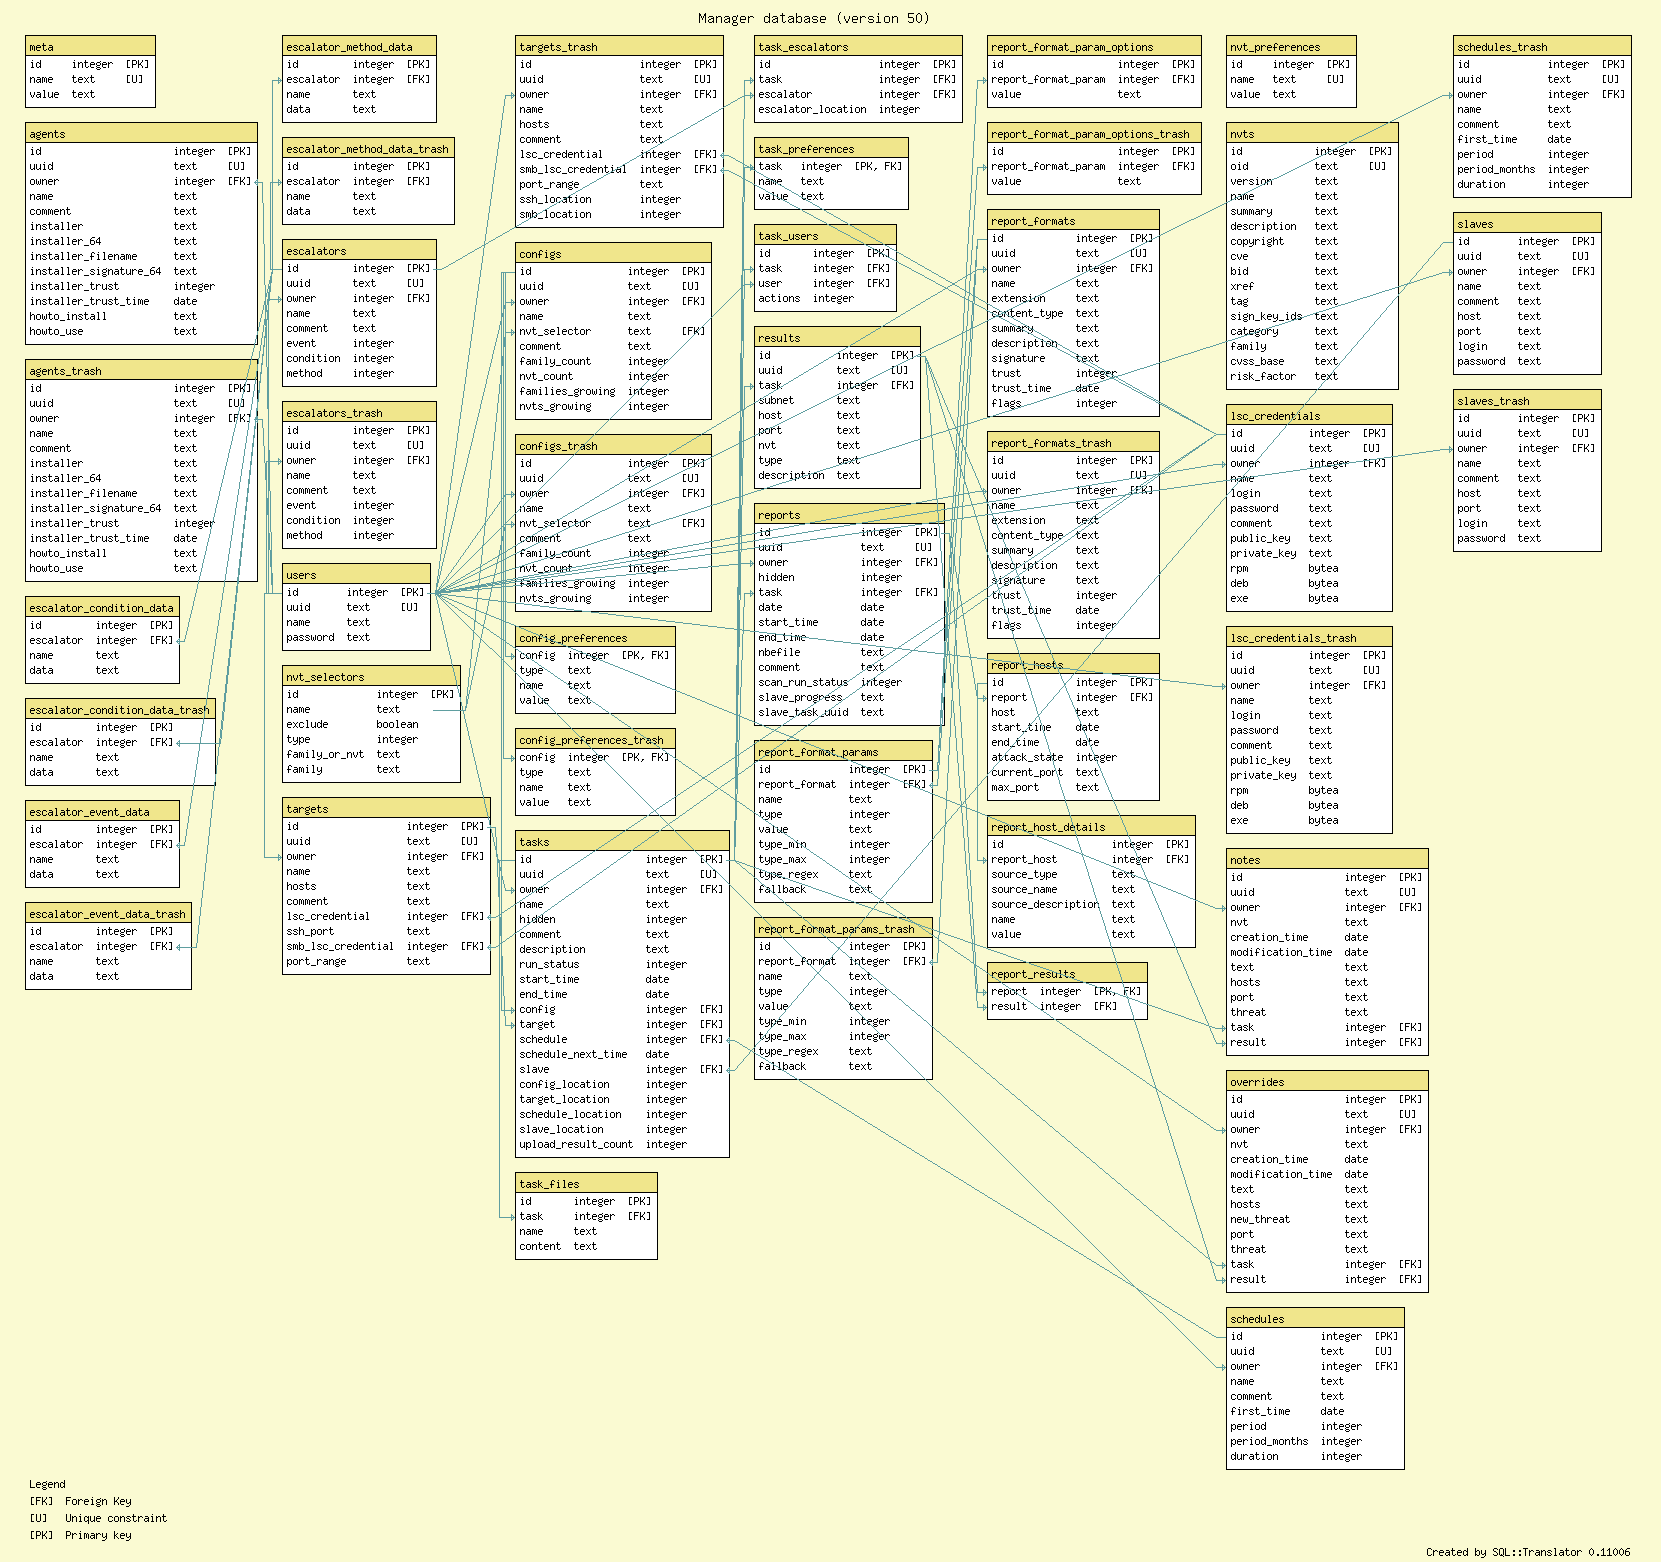
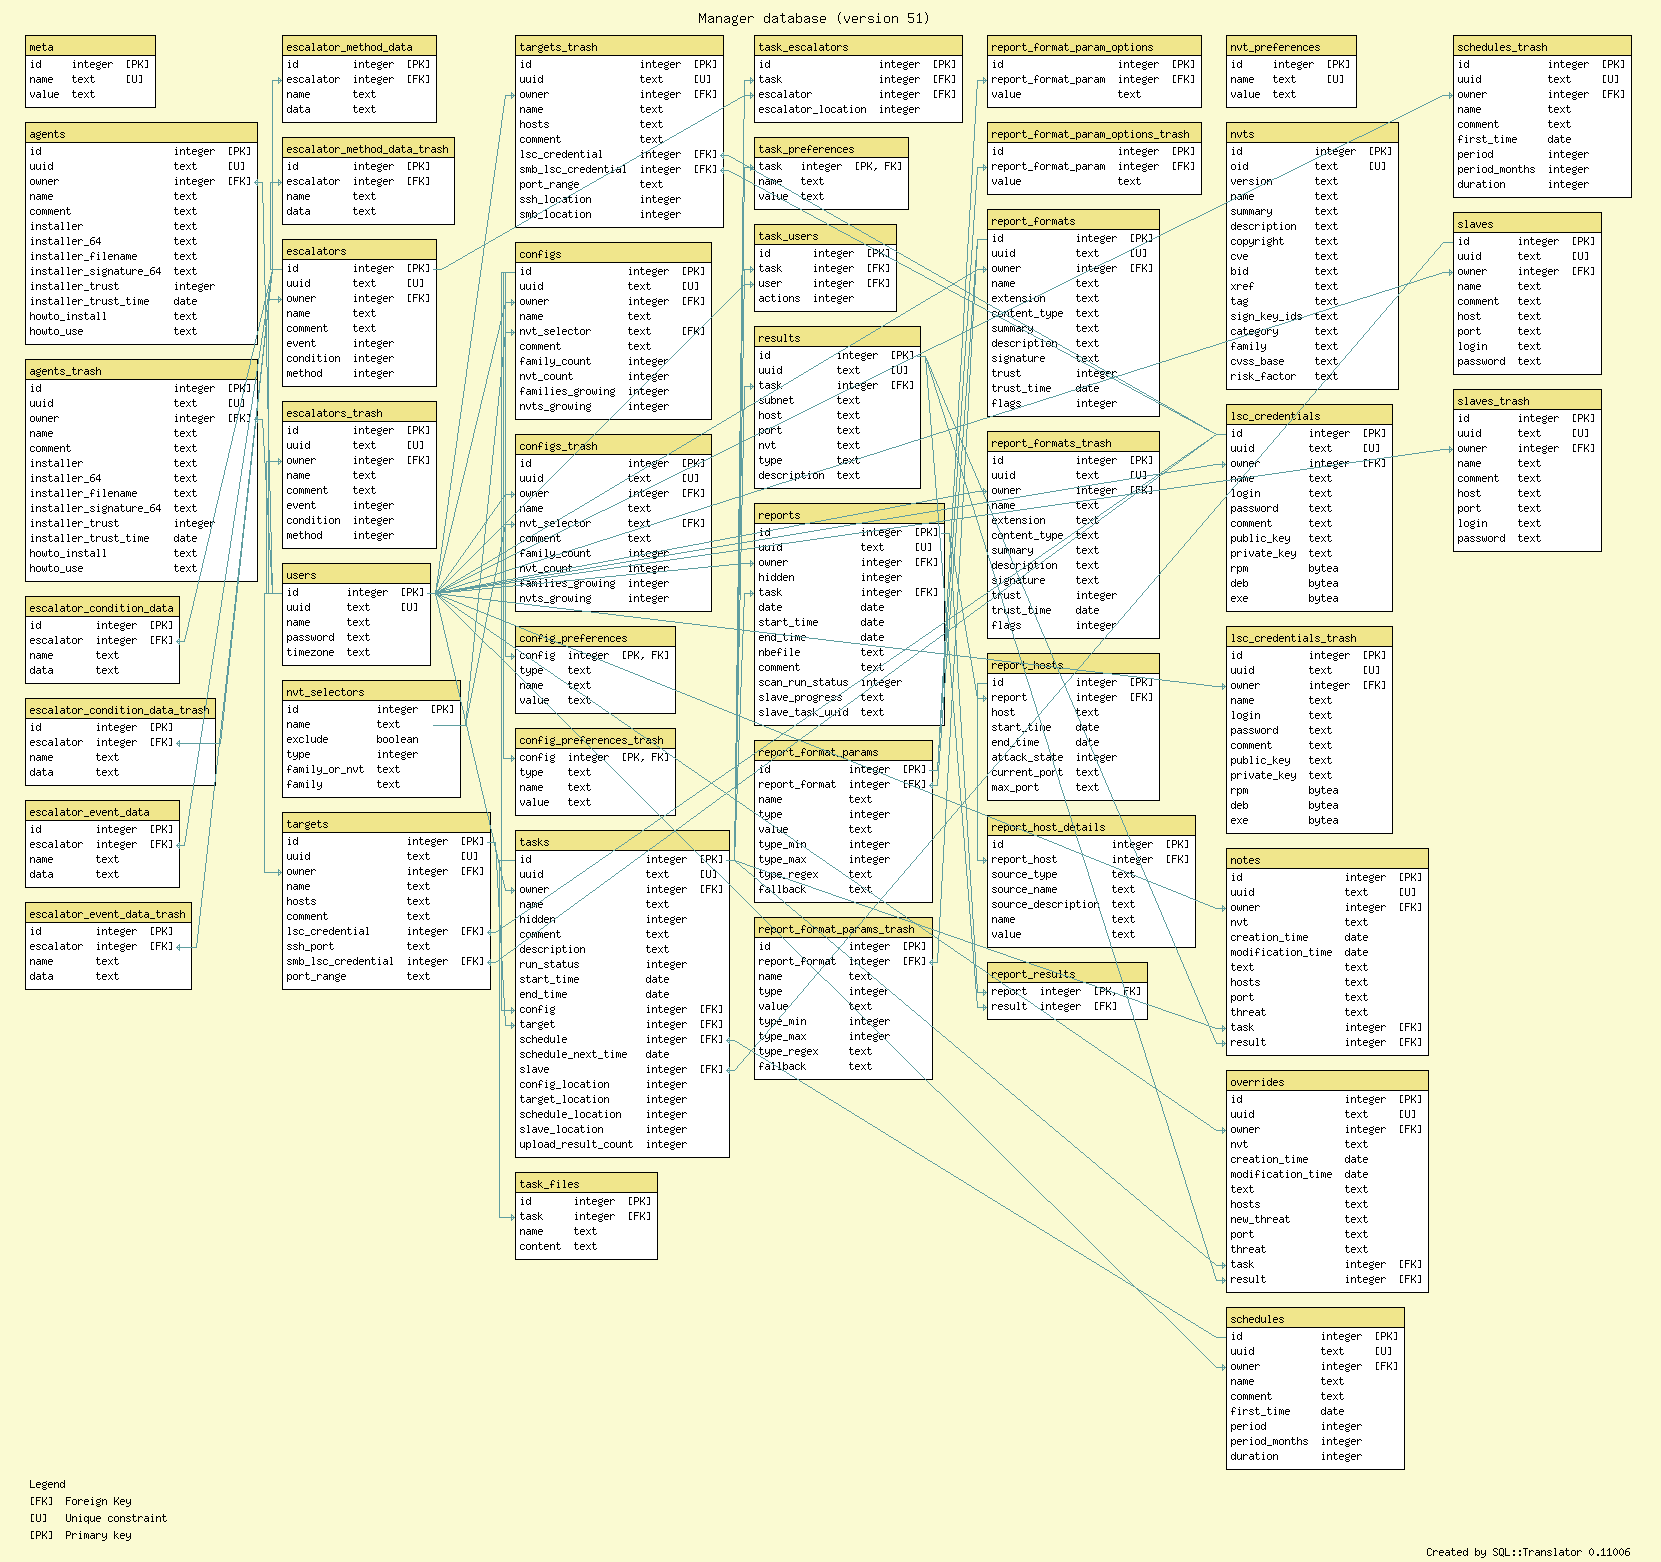
Add support for storing the user's timezone in the db.  Hence increase 	database version to 51.  Add database migration from version 50 to 51. 	Include user timezone and role in the AUTHENTICATE response.
* CMakeLists.txt (OPENVASMD_DATABASE_VERSION): Increase to 51.

	* src/manage_sql.c (create_tables): Add timezone to users.
	(migrate_50_to_51): New function.
	(database_migrators): Add migrate_50_to_51.
	(authenticate): Set credentials role and timezone.

	* src/omp.c (omp_xml_handle_end_element): Add ROLE and TIMEZONE to
	AUTHENTICATE response.

	* doc/db_postgres.sql (users): Add timezone.

	* doc/db.png: Update from SQL.

git-svn-id: svn+ssh://scm.wald.intevation.org/openvas/trunk/openvas-manager@11704 423fd1db-d629-0410-8442-d21db03e70f4

Changed region(s): [[0.1535, 0.3995, 0.307, 0.5531], [0.1535, 0.5839, 0.307, 0.6453]]

diff --git a/src/manage_sql.c b/src/manage_sql.c
@@ -1259,7 +1259,7 @@ create_tables ()
   sql ("CREATE TABLE IF NOT EXISTS task_preferences (id INTEGER PRIMARY KEY, task INTEGER, name, value);");
   sql ("CREATE TABLE IF NOT EXISTS tasks   (id INTEGER PRIMARY KEY, uuid, owner INTEGER, name, hidden INTEGER, time, comment, description, run_status INTEGER, start_time, end_time, config INTEGER, target INTEGER, schedule INTEGER, schedule_next_time, slave INTEGER, config_location INTEGER, target_location INTEGER, schedule_location INTEGER, slave_location INTEGER, upload_result_count INTEGER);");
   sql ("CREATE TABLE IF NOT EXISTS task_users (id INTEGER PRIMARY KEY, task INTEGER, user INTEGER, actions INTEGER);");
-  sql ("CREATE TABLE IF NOT EXISTS users   (id INTEGER PRIMARY KEY, uuid UNIQUE, name, password);");
+  sql ("CREATE TABLE IF NOT EXISTS users   (id INTEGER PRIMARY KEY, uuid UNIQUE, name, password, timezone);");
 
   sql ("ANALYZE;");
 }
@@ -5130,6 +5130,40 @@ migrate_49_to_50 ()
 }
 
 /**
+ * @brief Migrate the database from version 50 to version 51.
+ *
+ * @return 0 success, -1 error.
+ */
+static int
+migrate_50_to_51 ()
+{
+  sql ("BEGIN EXCLUSIVE;");
+
+  /* Ensure that the database is currently version 50. */
+
+  if (manage_db_version () != 50)
+    {
+      sql ("ROLLBACK;");
+      return -1;
+    }
+
+  /* Update the database. */
+
+  /* The user table got a timezone column. */
+
+  sql ("ALTER TABLE users ADD column timezone;");
+  sql ("UPDATE users SET timezone = NULL;");
+
+  /* Set the database version to 51. */
+
+  set_db_version (51);
+
+  sql ("COMMIT;");
+
+  return 0;
+}
+
+/**
  * @brief Array of database version migrators.
  */
 static migrator_t database_migrators[]
@@ -5184,6 +5218,7 @@ static migrator_t database_migrators[]
     {48, migrate_47_to_48},
     {49, migrate_48_to_49},
     {50, migrate_49_to_50},
+    {51, migrate_50_to_51},
     /* End marker. */
     {-1, NULL}};
 
@@ -8836,6 +8871,13 @@ authenticate (credentials_t* credentials)
         {
           gchar* quoted_name;
 
+          credentials->role
+            = g_strdup (openvas_is_user_admin (credentials->username)
+                         ? "Admin"
+                         : (openvas_is_user_observer (credentials->username)
+                             ? "Observer"
+                             : "User"));
+
           /* Ensure the user exists in the database.  SELECT then INSERT
            * instead of using "INSERT OR REPLACE", so that the ROWID stays
            * the same. */
@@ -8843,13 +8885,21 @@ authenticate (credentials_t* credentials)
           if (sql_int (0, 0,
                        "SELECT count(*) FROM users WHERE uuid = '%s';",
                        credentials->uuid))
-            return 0;
+            {
+              credentials->timezone = sql_string (0, 0,
+                                                  "SELECT timezone FROM users"
+                                                  " WHERE uuid = '%s';",
+                                                  credentials->uuid);
+              return 0;
+            }
 
           quoted_name = sql_quote (credentials->username);
-          sql ("INSERT INTO users (uuid, name) VALUES ('%s', '%s');",
+          sql ("INSERT INTO users (uuid, name, timezone)"
+               " VALUES ('%s', '%s', NULL);",
                credentials->uuid,
                quoted_name);
           g_free (quoted_name);
+          credentials->timezone = NULL;
           return 0;
         }
       return fail;

diff --git a/src/omp.c b/src/omp.c
@@ -8948,7 +8948,18 @@ omp_xml_handle_end_element (/*@unused@*/ GMarkupParseContext* context,
                 }
               else
                 {
-                  SEND_TO_CLIENT_OR_FAIL (XML_OK ("authenticate"));
+                  SENDF_TO_CLIENT_OR_FAIL ("<authenticate_response"
+                                           " status=\"" STATUS_OK "\""
+                                           " status_text=\"" STATUS_OK_TEXT "\">"
+                                           "<role>%s</role>"
+                                           "<timezone>%s</timezone>"
+                                           "</authenticate_response>",
+                                           current_credentials.role
+                                             ? current_credentials.role
+                                             : "",
+                                           current_credentials.timezone
+                                             ? current_credentials.timezone
+                                             : "");
                   set_client_state (CLIENT_AUTHENTIC);
                 }
               break;
